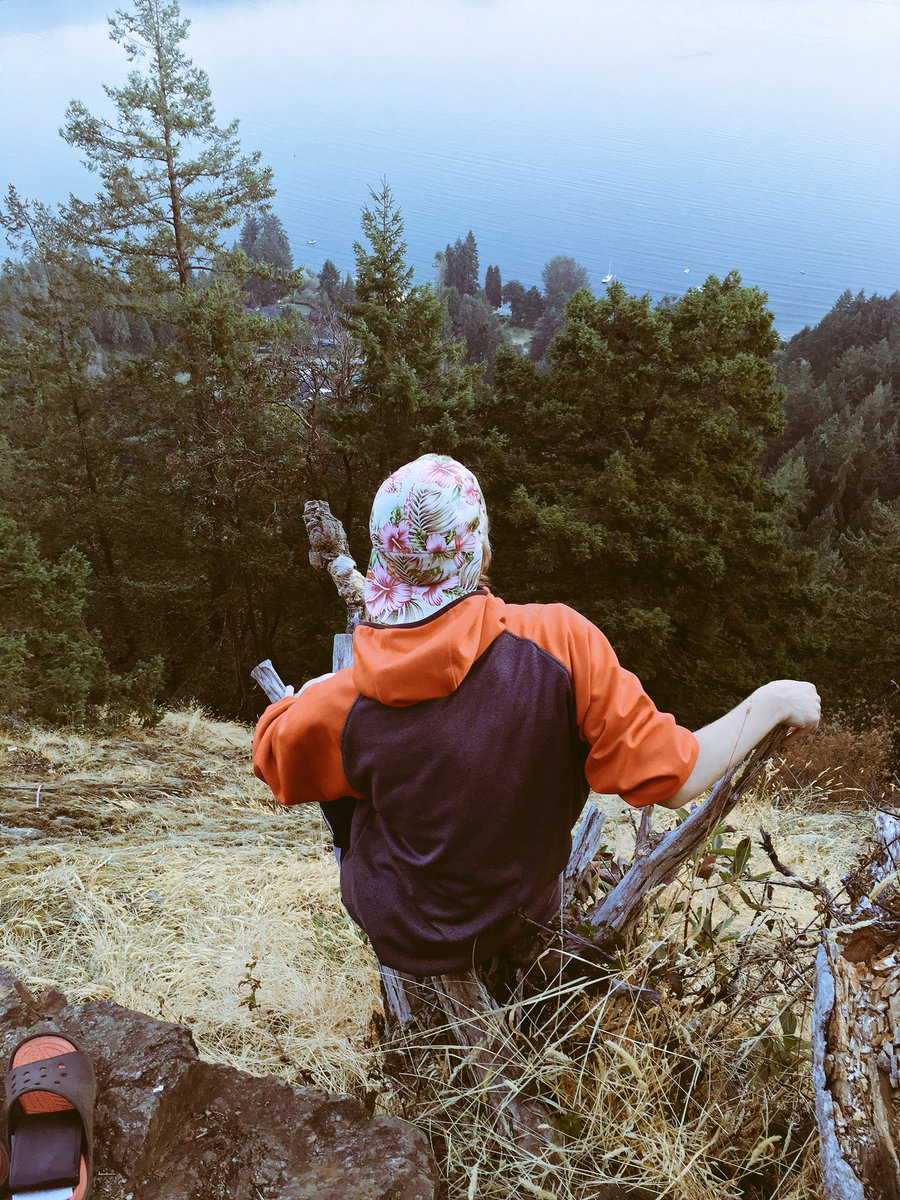
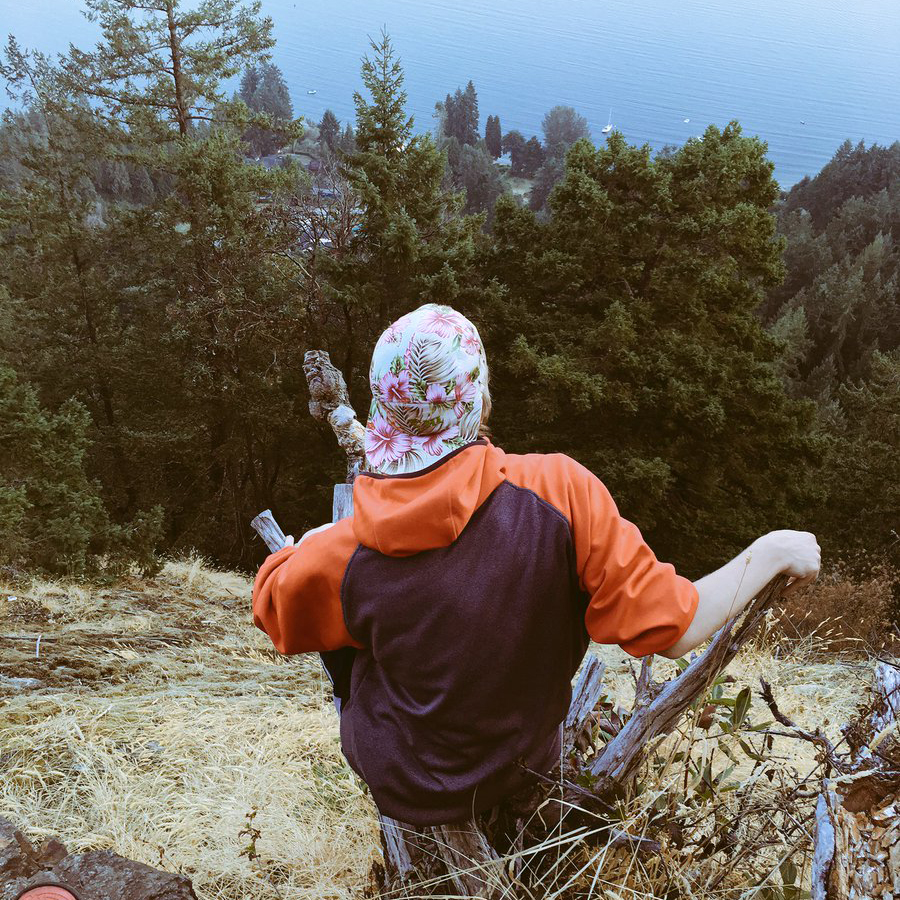
photo and text changes

diff --git a/index.html b/index.html
@@ -100,12 +100,12 @@
         <div class="row align-items-center">
           <div class="col-md-6">
             <div class="p-5">
-              <img class="img-fluid rounded-circle" src="https://unsplash.it/500/500?image=452" alt="">
+              <img class="img-fluid rounded-circle" src="Images/photo_2017-09-20_03-33-25.jpg" alt="">
             </div>
           </div>
           <div class="col-md-6">
             <div class="p-5">
-              <h2 class="display-4">We salute you!</h2>
+              <h2 class="display-4">Projects</h2>
               <p>Lorem ipsum dolor sit amet, consectetur adipisicing elit. Quod aliquid, mollitia odio veniam sit iste esse assumenda amet aperiam exercitationem, ea animi blanditiis recusandae! Ratione voluptatum molestiae adipisci, beatae obcaecati.</p>
             </div>
           </div>
